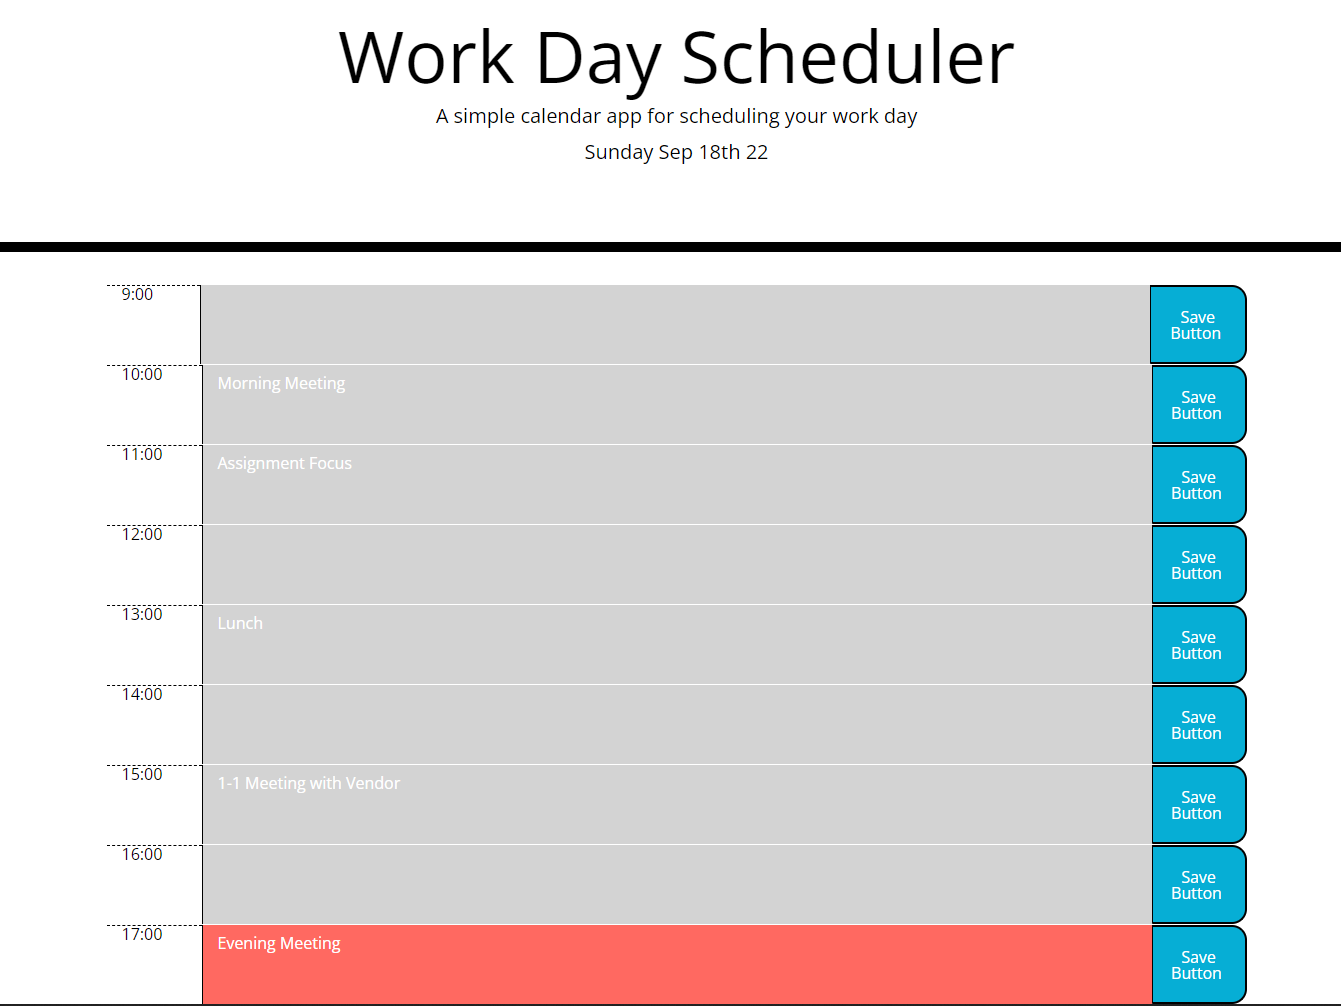
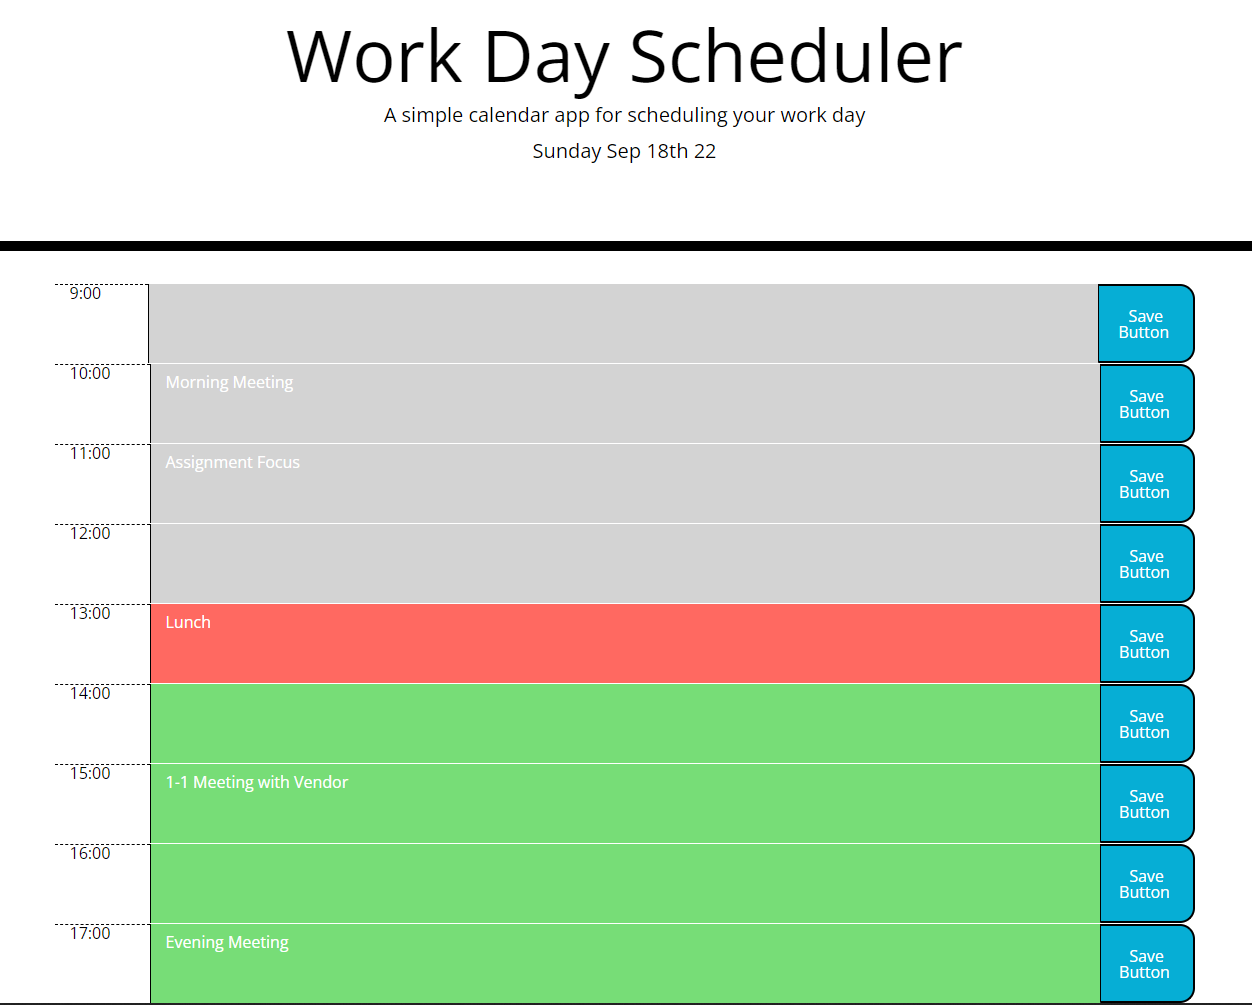
updated picture

diff --git a/assets/script.js b/assets/script.js
@@ -1,6 +1,6 @@
 
 // Variables section
-var today = moment();
+var today = moment("13:00","hh:mm");
 $('#currentDay').text(today.format("dddd" +" " + "MMM Do YY"));
 
 var items = ["", "", "", "", "", "", "", "", ""];

diff --git a/README.md b/README.md
@@ -22,7 +22,7 @@ In order to add an event to a block of time, a user can ‘click’ into a block
 In order to delete, or update an agenda item, the user must update in the block of time, and ‘click’ on the save button in order for the change to take effect. 
 
    
-    ![screenshot of the mainpage of the work day scheduler](assets/workday-scheduler-screenshot.png)
+![screenshot of the mainpage of the work day scheduler](assets/workday-scheduler-screenshot.png)
     
 
 ## Credits
